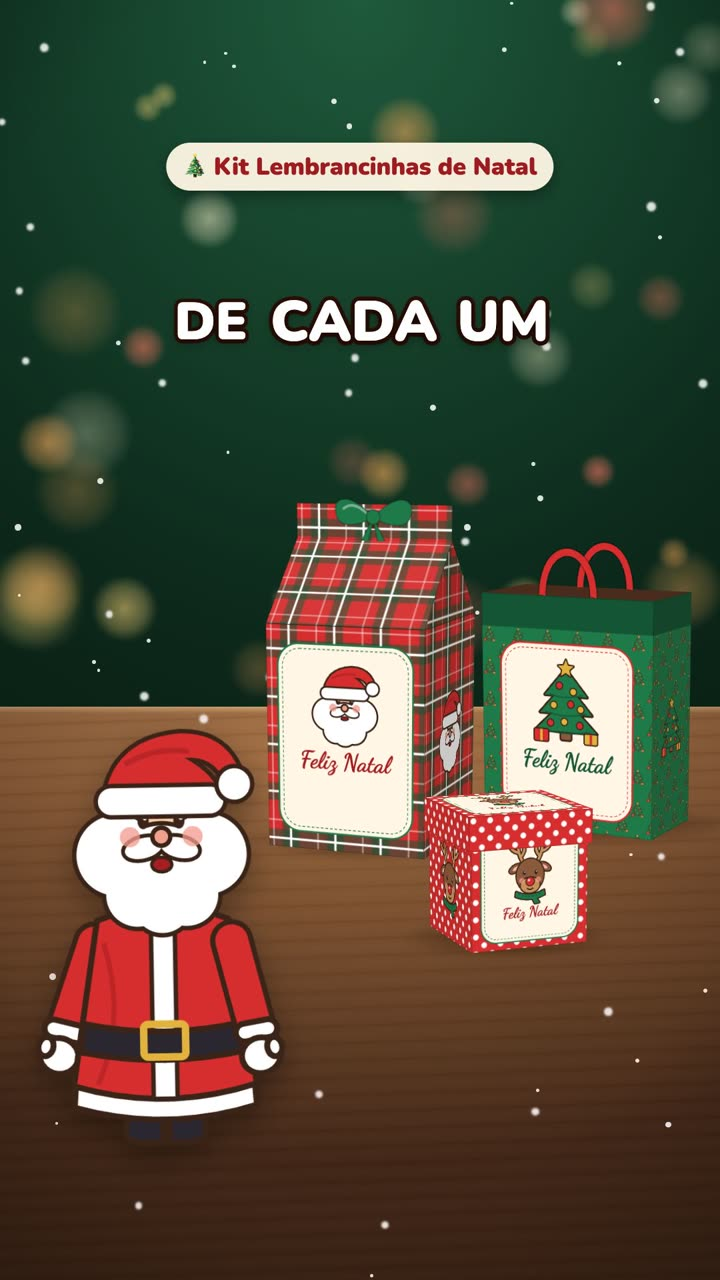
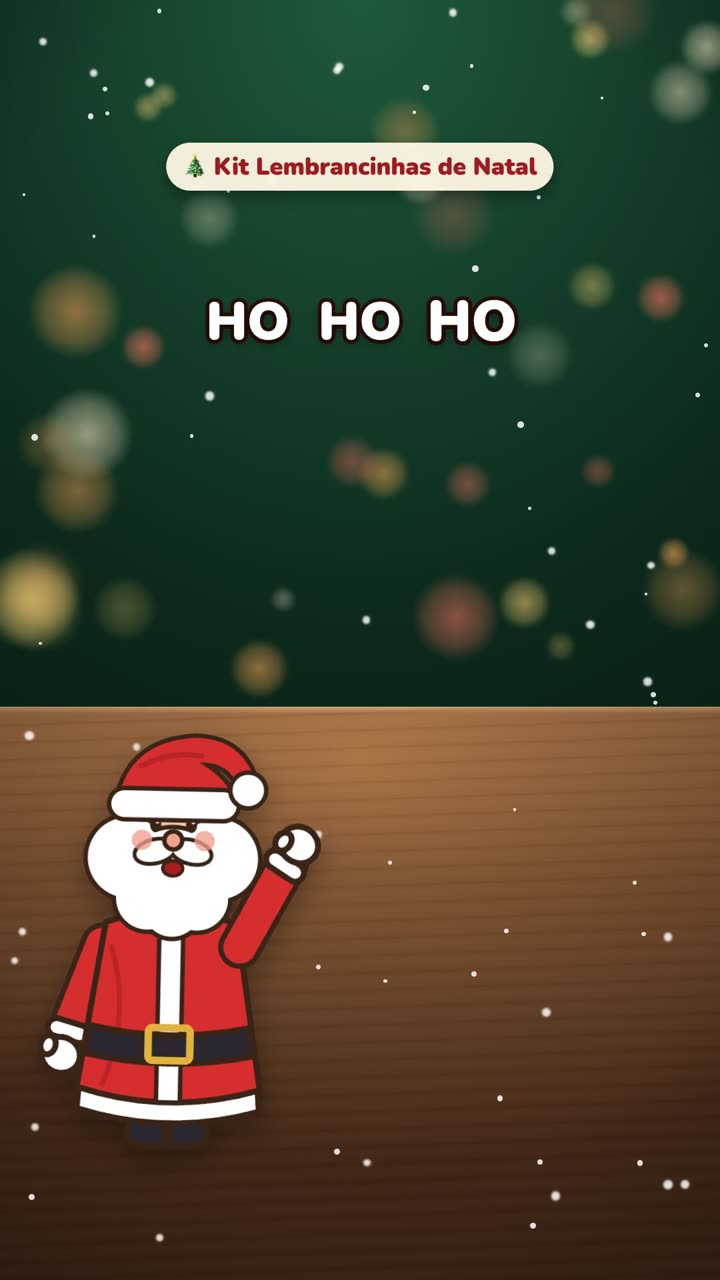
Natal: play no meio do vídeo e imagem da galeria sem esticar

diff --git a/natal/index.html b/natal/index.html
@@ -58,8 +58,11 @@ main, header, footer { position: relative; z-index: 2; }
 @keyframes entra { from { opacity: 0; transform: translateY(18px); } to { opacity: 1; transform: none; } }
 .fone { position: relative; width: min(300px, 76vw); aspect-ratio: 9 / 16; margin: 0 auto; border: 5px solid #000; border-radius: 34px; overflow: hidden; background: #000; box-shadow: 10px 12px 0 #000, 0 0 80px rgba(233,190,76,.25); transform: rotate(2deg); animation: entra .8s var(--mola) .3s both; }
 .fone video { width: 100%; height: 100%; object-fit: cover; display: block; }
-.som { position: absolute; left: 50%; bottom: 14px; transform: translateX(-50%); border: 3px solid #000; background: var(--ouro); color: var(--tinta); font: 900 15px 'Nunito', sans-serif; padding: 8px 14px; border-radius: 12px; box-shadow: 4px 4px 0 #000; cursor: pointer; white-space: nowrap; }
-.som.some { display: none; }
+.play { position: absolute; inset: 0; border: 0; background: rgba(0,0,0,.28); display: flex; flex-direction: column; align-items: center; justify-content: center; gap: 12px; cursor: pointer; color: #fff; font: inherit; }
+.play .tri { width: 92px; height: 92px; border-radius: 50%; background: var(--ouro); color: var(--tinta); border: 4px solid #000; box-shadow: 6px 6px 0 #000; display: grid; place-items: center; font-size: 38px; padding-left: 7px; animation: pulsa 1.6s ease-in-out infinite; }
+@keyframes pulsa { 50% { transform: scale(1.08); } }
+.play b { background: rgba(0,0,0,.75); padding: 6px 12px; border-radius: 10px; font-size: 15px; }
+.play.some { display: none; }
 @media (max-width: 760px) { .heroi { grid-template-columns: 1fr; padding-top: 22px; padding-bottom: 10px; } .fone { width: min(260px, 70vw); } }
 
 section { padding: 34px 0; }
@@ -73,7 +76,7 @@ section { padding: 34px 0; }
 .dor .riscado { text-decoration: line-through; text-decoration-color: var(--verm); text-decoration-thickness: 3px; }
 
 .galeria { display: grid; grid-template-columns: repeat(3, 1fr); gap: 14px; }
-.galeria img { width: 100%; border: 3px solid #000; border-radius: 18px; box-shadow: var(--sombra); display: block; background: #222; }
+.galeria img { width: 100%; height: auto; border: 3px solid #000; border-radius: 18px; box-shadow: var(--sombra); display: block; background: #222; }
 .galeria figure { margin: 0; } .galeria figcaption { font-size: 14px; color: var(--txt2); margin-top: 8px; }
 @media (max-width: 760px) { .galeria { grid-template-columns: 1fr 1fr; } .galeria figure:first-child { grid-column: 1 / -1; } }
 .honesto { color: var(--txt2); font-size: 14px; margin-top: 12px; }
@@ -149,7 +152,7 @@ section { padding: 34px 0; }
       <div class="dias" id="dias"></div>
     </div>
     <div>
-      <div class="fone"><video id="vid" src="natal-v1.mp4" poster="img/poster.jpg" autoplay muted loop playsinline preload="metadata"></video><button class="som" id="som">🔊 Ouvir o Papai Noel</button></div>
+      <div class="fone"><video id="vid" src="natal-v1.mp4" poster="img/poster.jpg" playsinline preload="metadata"></video><button class="play" id="play" aria-label="Assistir o vídeo com som"><span class="tri">▶</span><b>Assistir com som</b></button></div>
     </div>
   </div>
 
@@ -464,8 +467,8 @@ section { padding: 34px 0; }
   document.querySelectorAll('[data-plano]').forEach(a => { const u = CHECKOUT[a.dataset.plano]; if (u) a.href = u; });
   const io = 'IntersectionObserver' in window ? new IntersectionObserver(es => es.forEach(x => { if (x.isIntersecting) { x.target.classList.add('on'); io.unobserve(x.target); } }), { rootMargin: '0px 0px -8% 0px' }) : null;
   document.querySelectorAll('.aparece').forEach(e => io ? io.observe(e) : e.classList.add('on'));
-  const v = document.getElementById('vid'), s = document.getElementById('som');
-  s.addEventListener('click', () => { v.muted = false; v.currentTime = 0; v.play(); s.classList.add('some'); });
+  const v = document.getElementById('vid'), pl = document.getElementById('play');
+  pl.addEventListener('click', () => { v.muted = false; v.controls = true; pl.classList.add('some'); v.play(); });
   const hoje = new Date(), natal = new Date(hoje.getFullYear(), 11, 25), d = Math.ceil((natal - hoje) / 864e5);
   const el = document.getElementById('dias');
   if (d > 1) el.innerHTML = '🎅 Faltam <b>' + d + ' dias</b> pro Natal'; else el.remove();
